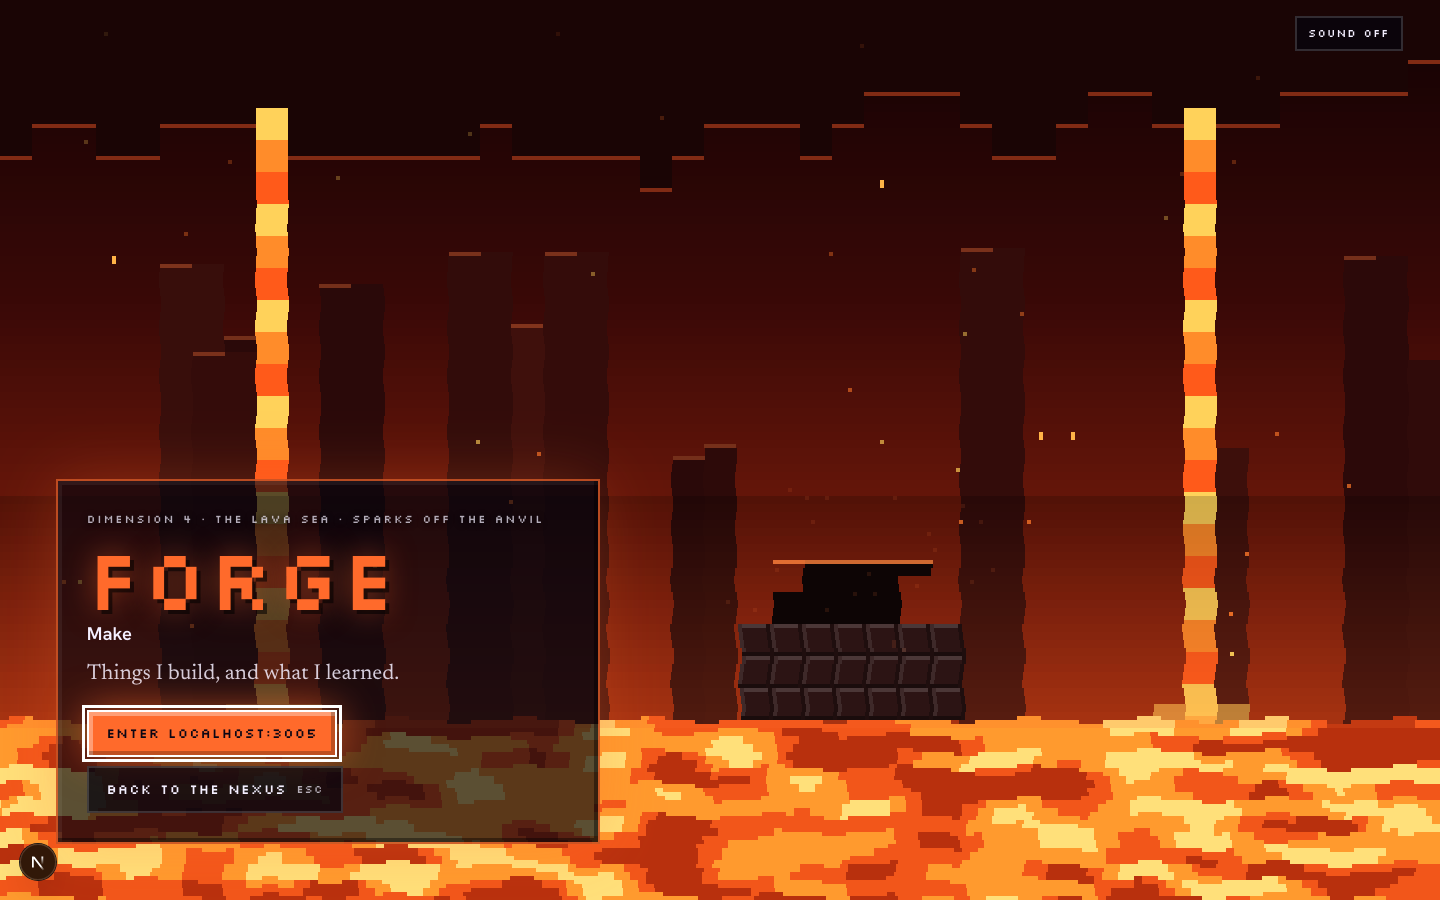
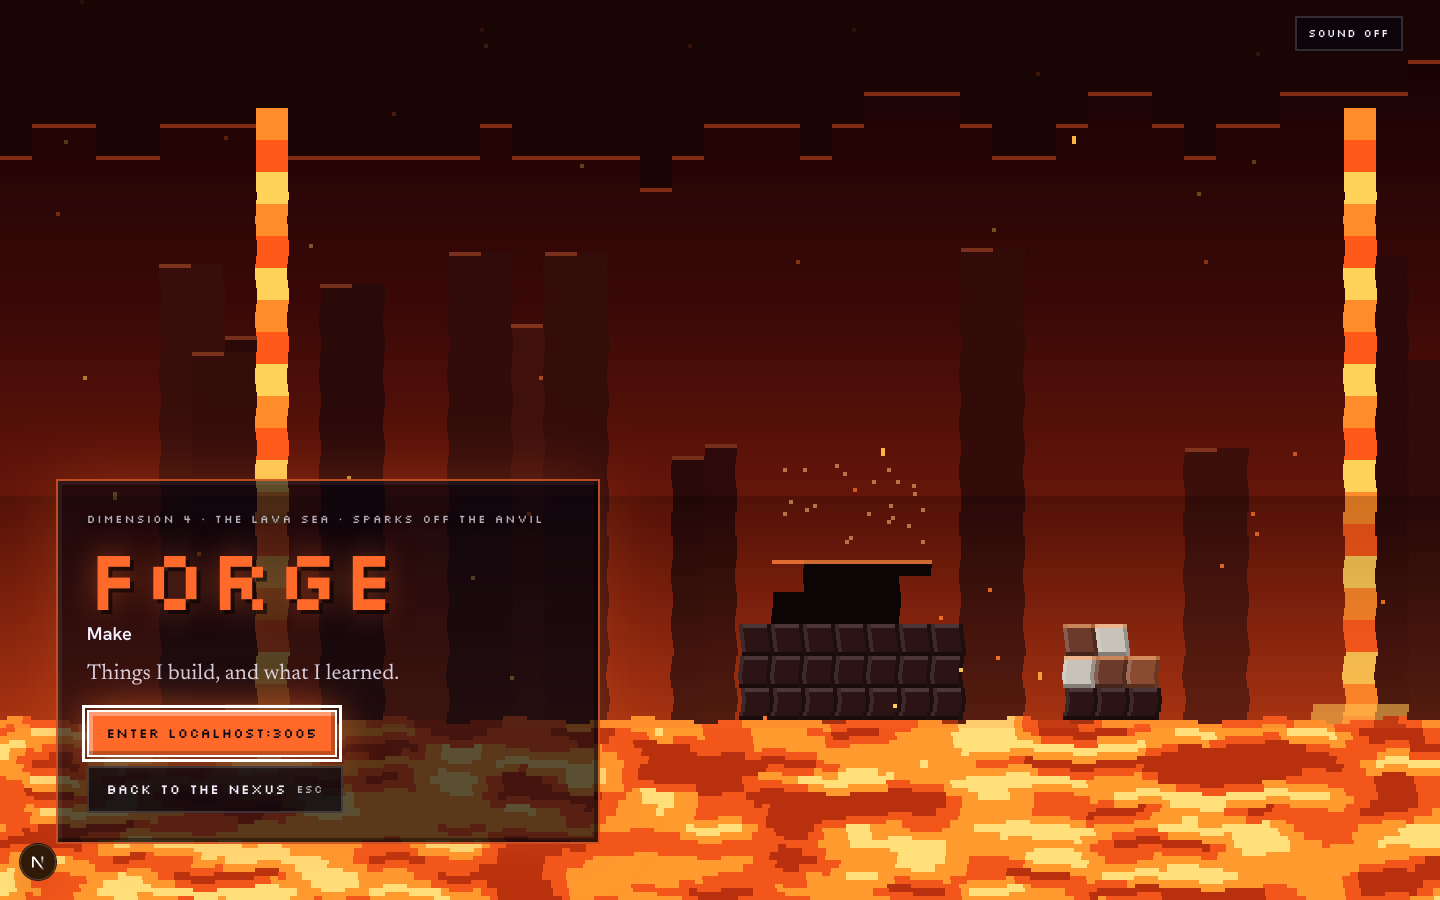
wip(hub): Forge builds a tower block by block; a ripple crosses the Nexus when the ring turns; the Nexus dims further under the page

diff --git a/apps/web/src/components/home/nexus/paint.ts b/apps/web/src/components/home/nexus/paint.ts
@@ -309,7 +309,7 @@ export const paintForge: Painter = (c, w, h, t) => {
     }
   }
   // lava falls
-  for (const fx of [0.18, 0.83]) {
+  for (const fx of [0.18, 0.93]) {
     const x = Math.round((w * fx) / T) * T;
     const top = h * 0.12;
     for (let y = top; y < h * 0.8; y += T) {
@@ -345,6 +345,27 @@ export const paintForge: Painter = (c, w, h, t) => {
     const x = ax + T / 2 + vx * beat;
     const y = ay - T * 2 + vy * beat + 60 * beat * beat;
     if (y < sea) fill(c, x, y, 1, 1, rgba(mix(hex("#fff3b0"), hex("#ff6a2b"), beat / 1.15), 1 - beat / 1.15));
+  }
+  // something being made: a tower that builds itself, block by block, then starts again
+  const bx = Math.round(w * 0.76);
+  const by = sea - T;
+  for (let i = -1; i <= 1; i++) block(c, bx + i * T, by, T, hex("#2c1414"), 0.15, 0.4);
+  const cycle = 14;
+  const prog = (t % cycle) / cycle;
+  const plan = 15;
+  const placed = Math.min(plan, Math.floor(prog * (plan + 4)));
+  for (let k = 0; k < placed; k++) {
+    const col = (k % 3) - 1;
+    const row = Math.floor(k / 3) + 1;
+    const metal = k % 4 === 0 ? hex("#c9c2b8") : k % 2 ? hex("#6b3a2a") : hex("#8a4b30");
+    const land = (prog * (plan + 4) - k) * 4; // a moment after it is placed
+    const drop = land < 1 ? (1 - land) * T * 3 : 0;
+    block(c, bx + col * T, by - row * T - drop, T, metal, 0.3, 0.35);
+    fill(c, bx + col * T, by - row * T - drop, T, 1, "rgba(255,150,80,.5)");
+    if (land >= 1 && land < 1.6) {
+      for (let q = 0; q < 6; q++)
+        fill(c, bx + col * T + hash(q + k) * T, by - row * T - (land - 1) * T * 2 * hash(q * 3 + k), 1, 1, "#ffd25a");
+    }
   }
   // embers rising
   for (let i = 0; i < 40; i++) {

diff --git a/apps/web/src/components/home/Nexus.tsx b/apps/web/src/components/home/Nexus.tsx
@@ -69,6 +69,7 @@ export function Nexus({ realms, children }: { realms: RealmLink[]; children: Rea
     if (d > 2) d -= 4;
     if (d < -2) d += 4;
     s.target += d;
+    if (i !== s.hub.sel) s.hub.shift = 0;
     s.hub.sel = i;
     setSel(i);
     s.kick();
@@ -154,6 +155,7 @@ export function Nexus({ realms, children }: { realms: RealmLink[]; children: Rea
       frameNo++;
       const hub = s.hub;
       hub.reveal = Math.min(1, hub.reveal + dt / 2.6);
+      if (hub.shift !== undefined) hub.shift += dt;
       hub.rot += (s.target - hub.rot) * (s.reduce ? 1 : Math.min(1, dt * 5));
       const ease = s.reduce ? 1 : Math.min(1, dt * 3);
       hub.tint = mix(hub.tint ?? LOOKS[hub.sel].accent, LOOKS[hub.sel].accent, ease);
@@ -216,7 +218,7 @@ export function Nexus({ realms, children }: { realms: RealmLink[]; children: Rea
       } else if (s.reduce) el.style.backgroundImage = `url(${buf.toDataURL()})`;
       else view.drawImage(buf, 0, 0, bw, bh, 0, 0, W, H);
 
-      el.style.opacity = String(s.phase === "hub" ? 1 - 0.72 * clamp(scrollY / innerHeight) : 1);
+      el.style.opacity = String(s.phase === "hub" ? 1 - 0.84 * clamp(scrollY / innerHeight) : 1);
       if (!s.reduce && !document.hidden) {
         if (away && s.phase === "hub") setTimeout(() => s.kick(), 120);
         else s.kick();

diff --git a/apps/web/src/components/home/nexus/hub.ts b/apps/web/src/components/home/nexus/hub.ts
@@ -15,6 +15,8 @@ export type HubState = {
   previews: HTMLCanvasElement[];
   /** the Nexus's light, easing toward the front gate's colour */
   tint?: RGB;
+  /** seconds since the ring last turned to a new gate (a ripple of light crosses the platform) */
+  shift?: number;
   /** pointer, -1..1, eased: far layers drift against it */
   mx?: number;
   my?: number;
@@ -229,6 +231,16 @@ export function paintNexus(c: CanvasRenderingContext2D, w: number, h: number, t:
     const x = cx + Math.cos(a) * rx * 0.62;
     const y = cy + Math.sin(a) * ry * 0.62 + rise;
     fill(c, x, y, node ? 2 : 1, node ? 2 : 1, rgba(mix(acc, [255, 255, 255], node ? 0.5 : 0), (0.25 + 0.6 * flow) * r));
+  }
+
+  // the ripple when a new gate comes to the front
+  if (s.shift !== undefined && s.shift < 1.4) {
+    const k = s.shift / 1.4;
+    for (let a = 0; a < TAU; a += 0.008) {
+      const x = cx + Math.cos(a) * rx * (0.2 + k * 0.85);
+      const y = cy + Math.sin(a) * ry * (0.2 + k * 0.85) + rise;
+      fill(c, x, y, 2, 1, rgba(mix(acc, [255, 255, 255], 0.4), (1 - k) * 0.8));
+    }
   }
 
   const ring = gates(w, h, s).map((g) => ({ ...g, y: g.y + rise }));
